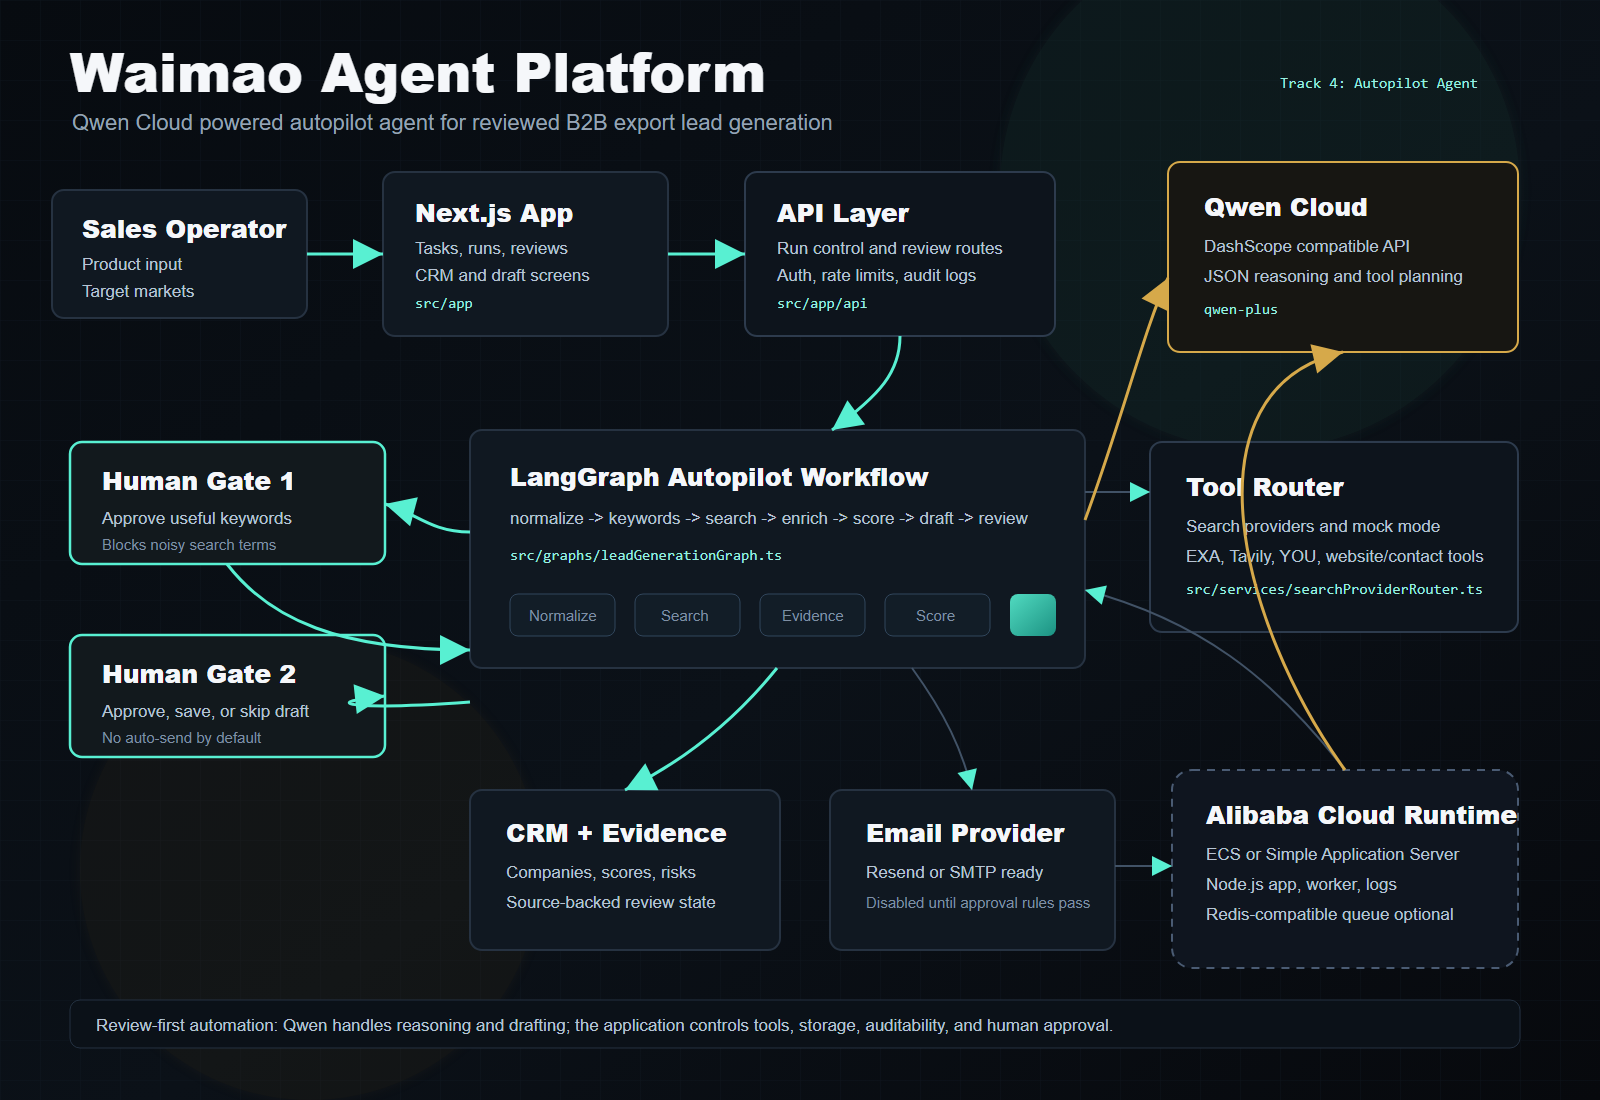
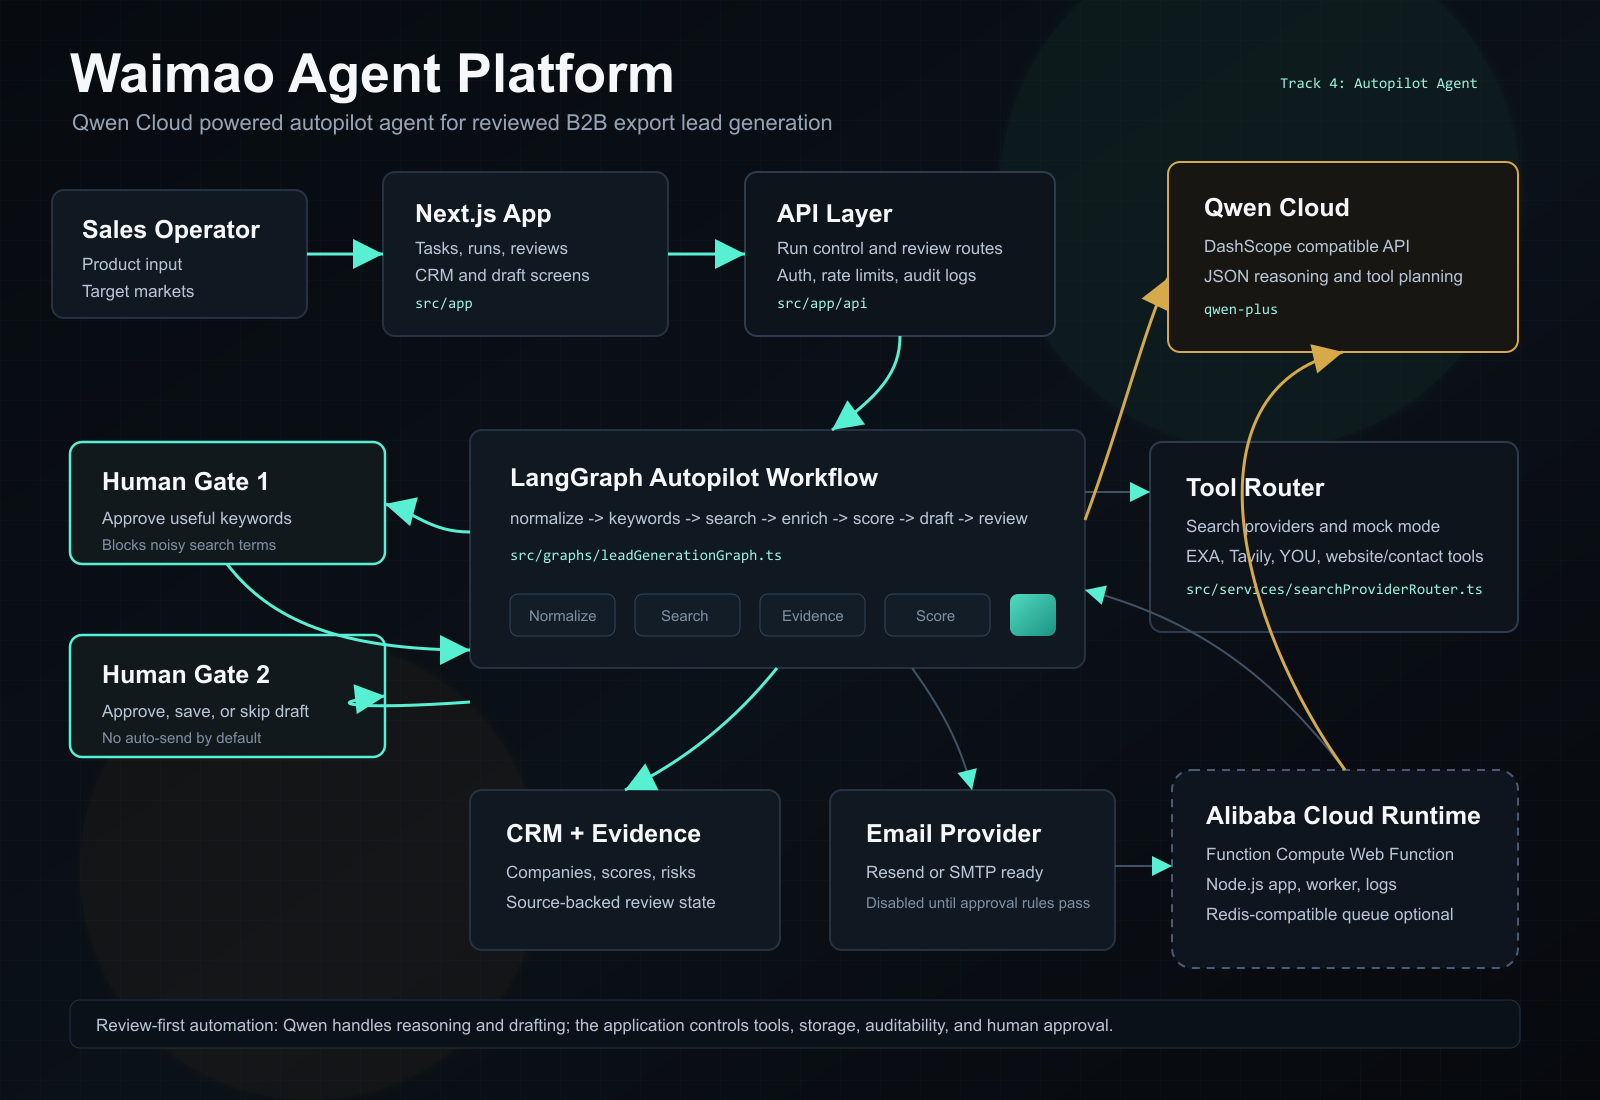
Add verified Alibaba Function Compute deployment

diff --git a/docs/alibaba-cloud-deployment-proof.md b/docs/alibaba-cloud-deployment-proof.md
@@ -6,12 +6,23 @@ Use this file as the checklist for the Devpost deployment proof video or screens
 
 Recommended options:
 
-- Alibaba Cloud ECS or Simple Application Server running the Next.js app.
 - Alibaba Cloud Function Compute Web Function running the standalone Next.js server.
-- Node.js 22 or 24 runtime.
+- Node.js 20, 22, or 24 custom runtime.
 - Qwen Cloud / DashScope API key configured through environment variables.
 - Optional Redis-compatible service if `QUEUE_ENABLED=true`.
 - Optional Supabase or local JSON storage for demo data.
+
+Verified hackathon deployment:
+
+- Platform: Alibaba Cloud Function Compute Web Function.
+- Region: `cn-hangzhou`.
+- Function: `waimao-qwen-agent`.
+- Runtime: custom runtime `Node.js 20` on Debian 10.
+- Startup command: `bash bootstrap`.
+- Listening port: `9000`.
+- HTTP trigger: `defaultTrigger`, anonymous demo access enabled.
+- Public app URL: `https://waimao-en-agent-wioggngoxg.cn-hangzhou.fcapp.run/runs/new`.
+- Verification: `GET /runs/new` returned HTTP `200` with page title `Waimao Agent Platform`.
 
 ## Required Environment Variables
 
@@ -65,10 +76,10 @@ pm2 logs waimao-agent-platform
 
 ## Proof Video Shot List
 
-1. Show the Alibaba Cloud console with the ECS or Simple Application Server instance name.
-2. Show the public IP/domain or application endpoint.
+1. Show the Alibaba Cloud Function Compute console with function `waimao-qwen-agent`.
+2. Show the public Function Compute endpoint.
 3. Show the environment variable names, with secret values hidden.
-4. Show the terminal or cloud logs running `npm run start` or the PM2 process.
+4. Show the runtime as Node.js 20, startup command `bash bootstrap`, and port `9000`.
 5. Open the deployed app URL.
 6. Start or open a run for a product such as `diaphragm accumulator`.
 7. Show keyword review, with provider/status indicating Qwen-backed reasoning where available.
@@ -81,7 +92,8 @@ Attach or link:
 
 - Public repository URL.
 - Public or unlisted 3-minute demo video URL.
-- Alibaba Cloud proof video or screenshots.
+- Alibaba Cloud Function Compute proof video or screenshots.
+- Public app URL: `https://waimao-en-agent-wioggngoxg.cn-hangzhou.fcapp.run/runs/new`.
 - `docs/architecture.svg`.
 - `docs/devpost-submission.md` text.
 

diff --git a/README.md b/README.md
@@ -167,14 +167,18 @@ npm run worker
 
 ## Alibaba Cloud Deployment Proof
 
-For Devpost, deploy this hackathon build on Alibaba Cloud ECS or Simple Application Server and use Qwen Cloud for the model provider.
+For Devpost, this hackathon build is deployed on Alibaba Cloud Function Compute as a Web Function and uses Qwen Cloud as the model provider integration.
+
+Verified public demo URL:
+
+`https://waimao-en-agent-wioggngoxg.cn-hangzhou.fcapp.run/runs/new`
 
 Recommended proof assets:
 
 - Public app URL.
-- Screenshot or short clip of the Alibaba Cloud instance/application.
+- Screenshot or short clip of the Alibaba Cloud Function Compute function.
 - Screenshot or clip showing the environment variables without exposing secrets.
-- Server log showing the app running.
+- Runtime/config screen showing Node.js 20, `bash bootstrap`, and port `9000`.
 - App screen showing a workflow run with provider `qwen`.
 - This repository link, architecture diagram, and the 3-minute demo video link.
 

diff --git a/docs/devpost-submission.md b/docs/devpost-submission.md
@@ -53,12 +53,12 @@ This makes the workflow practical for business use because the agent automates t
 
 ## Alibaba Cloud Deployment
 
-For the hackathon proof, the application is designed to run on Alibaba Cloud ECS or Simple Application Server with Qwen Cloud configured through environment variables.
+For the hackathon proof, the application is deployed on Alibaba Cloud Function Compute as a Web Function running the standalone Next.js server. The function uses the Node.js 20 custom runtime, the startup command `bash bootstrap`, and port `9000`.
 
 Deployment proof package:
 
-- Public app URL: `[TODO: add deployed URL]`
-- Alibaba Cloud proof video or screenshots: `[TODO: add link]`
+- Public app URL: `https://waimao-en-agent-wioggngoxg.cn-hangzhou.fcapp.run/runs/new`
+- Alibaba Cloud proof: Function Compute Web Function `waimao-qwen-agent` in `cn-hangzhou`, public HTTP trigger, anonymous demo access enabled.
 - Qwen Cloud model provider: `qwen-plus`
 - API base URL: `https://dashscope-intl.aliyuncs.com/compatible-mode/v1`
 - Architecture diagram: `docs/architecture.svg`

diff --git a/docs/architecture.md b/docs/architecture.md
@@ -31,7 +31,7 @@ flowchart TB
   Email -. "disabled until approved" .-> Store
 
   subgraph Alibaba["Alibaba Cloud deployment proof"]
-    Runtime["ECS or Simple Application Server"]
+    Runtime["Function Compute Web Function"]
     Redis["Redis-compatible queue backend"]
     Logs["Runtime logs"]
   end